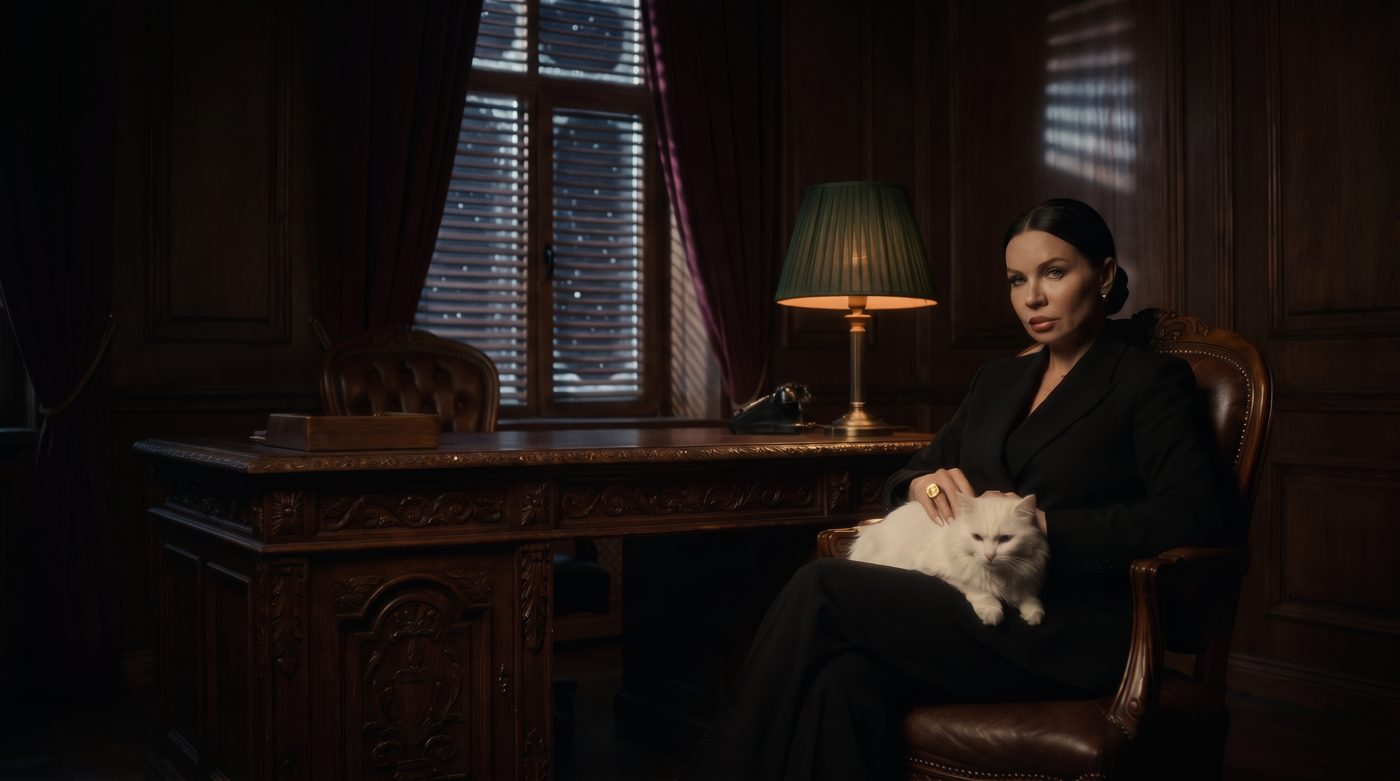
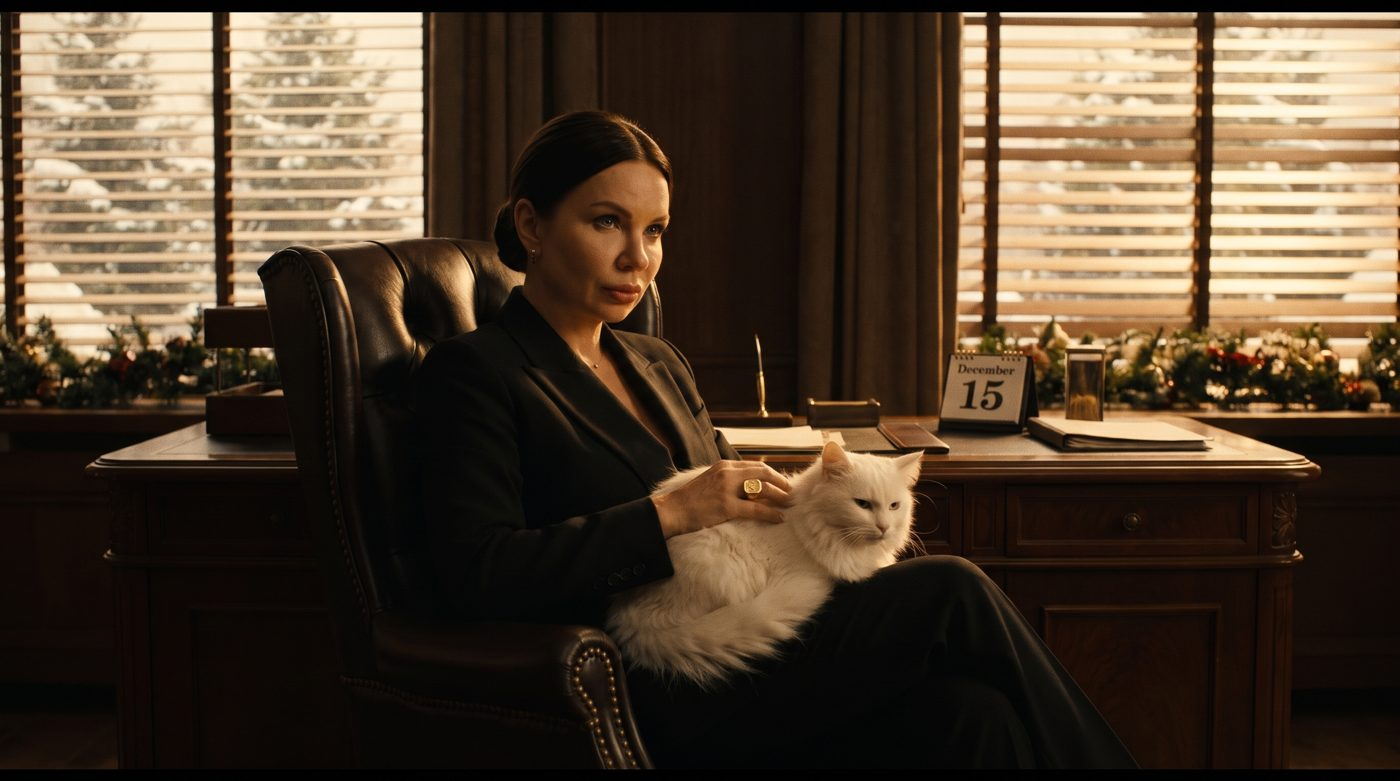
Крёстная: кадр 2 прежний, кадр 7 с менеджером

diff --git a/cheloveki-krestnaya-v6/index.html b/cheloveki-krestnaya-v6/index.html
@@ -4,4 +4,4 @@ article{display:grid;grid-template-columns:1.4fr 1fr;gap:20px;background:#17130f
 .ph{display:flex;align-items:center;justify-content:center;background:#222;color:#888}.t{padding:16px 18px 16px 0}.p{color:#d9a441;font-weight:600;font-size:19px}audio{width:100%;height:36px}
 .q{color:#f3dcae;font-style:italic;margin:10px 0 4px}.mz{color:#8fd19e;font-weight:600}.de{color:#e9a0a0}@media(max-width:760px){article{grid-template-columns:1fr}.t{padding:0 16px 16px}}</style></head><body><main>
 <h1>«Крёстная мать», часть 1: нуар v6</h1><p class="lead"><a style="color:#d9a441" href="vstuplenie.mp4">▶ Вступление: заставка и медленный подлёт к вилле</a><br>Один кабинет во всех кадрах: лампа с абажуром и приглушённым светом, окно с жалюзи. Менеджер везде как в кадре 6, Настя всё время за столом. Реплики можно послушать прямо у кадра. После твоего ОК оживлю кадры в Veo и соберу видео.</p>
-<article><img src="kT1.jpg" alt="Кадр T1"><div class="t"><div class="p">Кадр T1 · Заставка Columbia</div><p>Оригинальная заставка.</p><p class="q">«Коламбия Пикчерз… представляет»</p><audio controls preload="none" src="golos/t1.mp3"></audio><p class="mz">Своя музыка заставки</p></div></article><article><img src="kV.jpg" alt="Кадр V"><div class="t"><div class="p">Кадр V · Общий план, медленный подлёт к вилле</div><p>Ночь, снег, к воротам медленно подъезжает машина. Поверх проявляется дисклеймер, потом титр «КРЁСТНАЯ МАТЬ», каждый держится 3-4 секунды.</p><p class="q">«Все персонажи вымышлены. Любые совпадения с реальными людьми… случайны»</p><audio controls preload="none" src="golos/t2.mp3"></audio><p class="q">«Крёстная мать»</p><audio controls preload="none" src="golos/t3.mp3"></audio><p class="mz">♪ Вальс №3 с первой секунды</p></div></article><article><img src="kD.jpg" alt="Кадр D"><div class="t"><div class="p">Кадр D · Крупный, дверь</div><p>Цветной кадр: рука стучит в старинную дубовую дверь виллы.</p><p class="mz">♪ Вальс тише</p><p class=de>⏱ Три стука</p></div></article><article><img src="k1.jpg" alt="Кадр 1"><div class="t"><div class="p">Кадр 1 · Деталь, стол</div><p>Папки «Личное дело. Дед Мороз» и «Компромат», сигара, телефон. Лампа с абажуром, приглушённый свет.</p><p class="mz">♪ Вальс тихо</p><p class=de>⏱ Тиканье часов</p></div></article><article><img src="k2.jpg" alt="Кадр 2"><div class="t"><div class="p">Кадр 2 · Общий, нижний ракурс</div><p>Полутёмный кабинет: Настя за старинным столом, кот на коленях, лампа с абажуром, окно с жалюзи, снег.</p><p class="mz">♪ Вальс тихо</p><p class=de>⏱ Тиканье, мурлыканье</p></div></article><article><img src="k3.jpg" alt="Кадр 3"><div class="t"><div class="p">Кадр 3 · Через плечо Насти</div><p>Менеджер стоит перед столом, шляпа в руках.</p><p class="q">Менеджер: «Крёстная… мне очень нужен Дед Мороз. Это вопрос жизни и смерти. Я прошу тебя… помоги»</p><audio controls preload="none" src="golos/m1.mp3"></audio><p class="mz">♪ Вальс уходит</p><p class=de>⏱ С ботинок капает талый снег</p></div></article><article><img src="k4.jpg" alt="Кадр 4"><div class="t"><div class="p">Кадр 4 · Деталь</div><p>Рука с перстнем гладит кота.</p><p class="mz">Без музыки</p><p class=de>⏱ Кот открывает один глаз</p></div></article><article><img src="k5.jpg" alt="Кадр 5"><div class="t"><div class="p">Кадр 5 · Крупный</div><p>Настя гладит кота и говорит, не поднимая глаз.</p><p class="q">Настя: «Значит, я правильно поняла? Ты, сука (приглушено), посмел явиться в дом ночью… и просить у меня Деда Мороза? На самую горячую дату?»</p><audio controls preload="none" src="golos/n1.mp3"></audio><p class="mz">Без музыки</p><p class=de>⏱ Пауза, только тиканье</p></div></article><article><img src="k6.jpg" alt="Кадр 6"><div class="t"><div class="p">Кадр 6 · Крупный менеджера</div><p>Сглатывает, по виску течёт пот.</p><p class="q">Менеджер, дрожащим голосом: «Да, Крёстная мать… Прости, Крёстная мать»</p><audio controls preload="none" src="golos/m2.mp3"></audio><p class="mz">Без музыки</p><p class=de>⏱ Тиканье ускоряется</p></div></article><article><img src="k7.jpg" alt="Кадр 7"><div class="t"><div class="p">Кадр 7 · Средний крупный</div><p>Настя наклоняется к свету, живая, с холодной злостью.</p><p class="q">Настя: «У меня есть Дед Мороз. Но вопрос в том, КАК ты это делаешь. Ты делаешь это, сука… без уважения»</p><audio controls preload="none" src="golos/n2.mp3"></audio><p class="mz">Без музыки</p><p class=de>⏱ Тиканье замолкает</p></div></article><article><img src="kE.jpg" alt="Кадр E"><div class="t"><div class="p">Кадр E · Сверхкрупный</div><p>Испуганные глаза менеджера в полосе света.</p><p class="q">Менеджер, дрожа: «Прости, Крёстная мать. Я сделаю всё что угодно»</p><audio controls preload="none" src="golos/m3.mp3"></audio><p class="mz">Тишина</p></div></article><article><img src="k8.jpg" alt="Кадр 8"><div class="t"><div class="p">Кадр 8 · Средний, сбоку</div><p>Настя за столом протягивает руку, менеджер целует перстень.</p><p class="q">Настя: «Ладно. Я пойду тебе навстречу. Но ты будешь мне должен»</p><audio controls preload="none" src="golos/n3.mp3"></audio><p class="q">Менеджер, дрожа: «Да, Крёстная мать… Конечно, Крёстная мать»</p><audio controls preload="none" src="golos/m4.mp3"></audio><p class="mz">♪ ТЕМА ЛЮБВИ вступает на поцелуе</p><p class=de>⏱ Кот фыркает на менеджера</p></div></article></main></body></html>
+<article><img src="kT1.jpg" alt="Кадр T1"><div class="t"><div class="p">Кадр T1 · Заставка Columbia</div><p>Оригинальная заставка.</p><p class="q">«Коламбия Пикчерз… представляет»</p><audio controls preload="none" src="golos/t1.mp3"></audio><p class="mz">Своя музыка заставки</p></div></article><article><img src="kV.jpg" alt="Кадр V"><div class="t"><div class="p">Кадр V · Общий план, медленный подлёт к вилле</div><p>Ночь, снег, к воротам медленно подъезжает машина. Поверх проявляется дисклеймер, потом титр «КРЁСТНАЯ МАТЬ», каждый держится 3-4 секунды.</p><p class="q">«Все персонажи вымышлены. Любые совпадения с реальными людьми… случайны»</p><audio controls preload="none" src="golos/t2.mp3"></audio><p class="q">«Крёстная мать»</p><audio controls preload="none" src="golos/t3.mp3"></audio><p class="mz">♪ Вальс №3 с первой секунды</p></div></article><article><img src="kD.jpg" alt="Кадр D"><div class="t"><div class="p">Кадр D · Крупный, дверь</div><p>Цветной кадр: рука стучит в старинную дубовую дверь виллы.</p><p class="mz">♪ Вальс тише</p><p class=de>⏱ Три стука</p></div></article><article><img src="k1.jpg" alt="Кадр 1"><div class="t"><div class="p">Кадр 1 · Деталь, стол</div><p>Папки «Личное дело. Дед Мороз» и «Компромат», сигара, телефон. Лампа с абажуром, приглушённый свет.</p><p class="mz">♪ Вальс тихо</p><p class=de>⏱ Тиканье часов</p></div></article><article><img src="k2.jpg" alt="Кадр 2"><div class="t"><div class="p">Кадр 2 · Общий</div><p>Прошлый кадр, который тебе нравился: Настя с котом у жалюзи. В видео будет темнее, под нуар. Veo-клип для него уже есть.</p><p class="mz">♪ Вальс тихо</p><p class=de>⏱ Тиканье, мурлыканье</p></div></article><article><img src="k3.jpg" alt="Кадр 3"><div class="t"><div class="p">Кадр 3 · Через плечо Насти</div><p>Менеджер стоит перед столом, шляпа в руках.</p><p class="q">Менеджер: «Крёстная… мне очень нужен Дед Мороз. Это вопрос жизни и смерти. Я прошу тебя… помоги»</p><audio controls preload="none" src="golos/m1.mp3"></audio><p class="mz">♪ Вальс уходит</p><p class=de>⏱ С ботинок капает талый снег</p></div></article><article><img src="k4.jpg" alt="Кадр 4"><div class="t"><div class="p">Кадр 4 · Деталь</div><p>Рука с перстнем гладит кота.</p><p class="mz">Без музыки</p><p class=de>⏱ Кот открывает один глаз</p></div></article><article><img src="k5.jpg" alt="Кадр 5"><div class="t"><div class="p">Кадр 5 · Крупный</div><p>Настя гладит кота и говорит, не поднимая глаз.</p><p class="q">Настя: «Значит, я правильно поняла? Ты, сука (приглушено), посмел явиться в дом ночью… и просить у меня Деда Мороза? На самую горячую дату?»</p><audio controls preload="none" src="golos/n1.mp3"></audio><p class="mz">Без музыки</p><p class=de>⏱ Пауза, только тиканье</p></div></article><article><img src="k6.jpg" alt="Кадр 6"><div class="t"><div class="p">Кадр 6 · Крупный менеджера</div><p>Сглатывает, по виску течёт пот.</p><p class="q">Менеджер, дрожащим голосом: «Да, Крёстная мать… Прости, Крёстная мать»</p><audio controls preload="none" src="golos/m2.mp3"></audio><p class="mz">Без музыки</p><p class=de>⏱ Тиканье ускоряется</p></div></article><article><img src="k7.jpg" alt="Кадр 7"><div class="t"><div class="p">Кадр 7 · Средний крупный</div><p>Настя за столом наклоняется и кричит. Напротив сидит смущённый менеджер, шляпа и чемодан на коленях.</p><p class="q">Настя: «У меня есть Дед Мороз. Но вопрос в том, КАК ты это делаешь. Ты делаешь это, сука… без уважения»</p><audio controls preload="none" src="golos/n2.mp3"></audio><p class="mz">Без музыки</p><p class=de>⏱ Тиканье замолкает</p></div></article><article><img src="kE.jpg" alt="Кадр E"><div class="t"><div class="p">Кадр E · Сверхкрупный</div><p>Испуганные глаза менеджера в полосе света.</p><p class="q">Менеджер, дрожа: «Прости, Крёстная мать. Я сделаю всё что угодно»</p><audio controls preload="none" src="golos/m3.mp3"></audio><p class="mz">Тишина</p></div></article><article><img src="k8.jpg" alt="Кадр 8"><div class="t"><div class="p">Кадр 8 · Средний, сбоку</div><p>Настя за столом протягивает руку, менеджер целует перстень.</p><p class="q">Настя: «Ладно. Я пойду тебе навстречу. Но ты будешь мне должен»</p><audio controls preload="none" src="golos/n3.mp3"></audio><p class="q">Менеджер, дрожа: «Да, Крёстная мать… Конечно, Крёстная мать»</p><audio controls preload="none" src="golos/m4.mp3"></audio><p class="mz">♪ ТЕМА ЛЮБВИ вступает на поцелуе</p><p class=de>⏱ Кот фыркает на менеджера</p></div></article></main></body></html>
